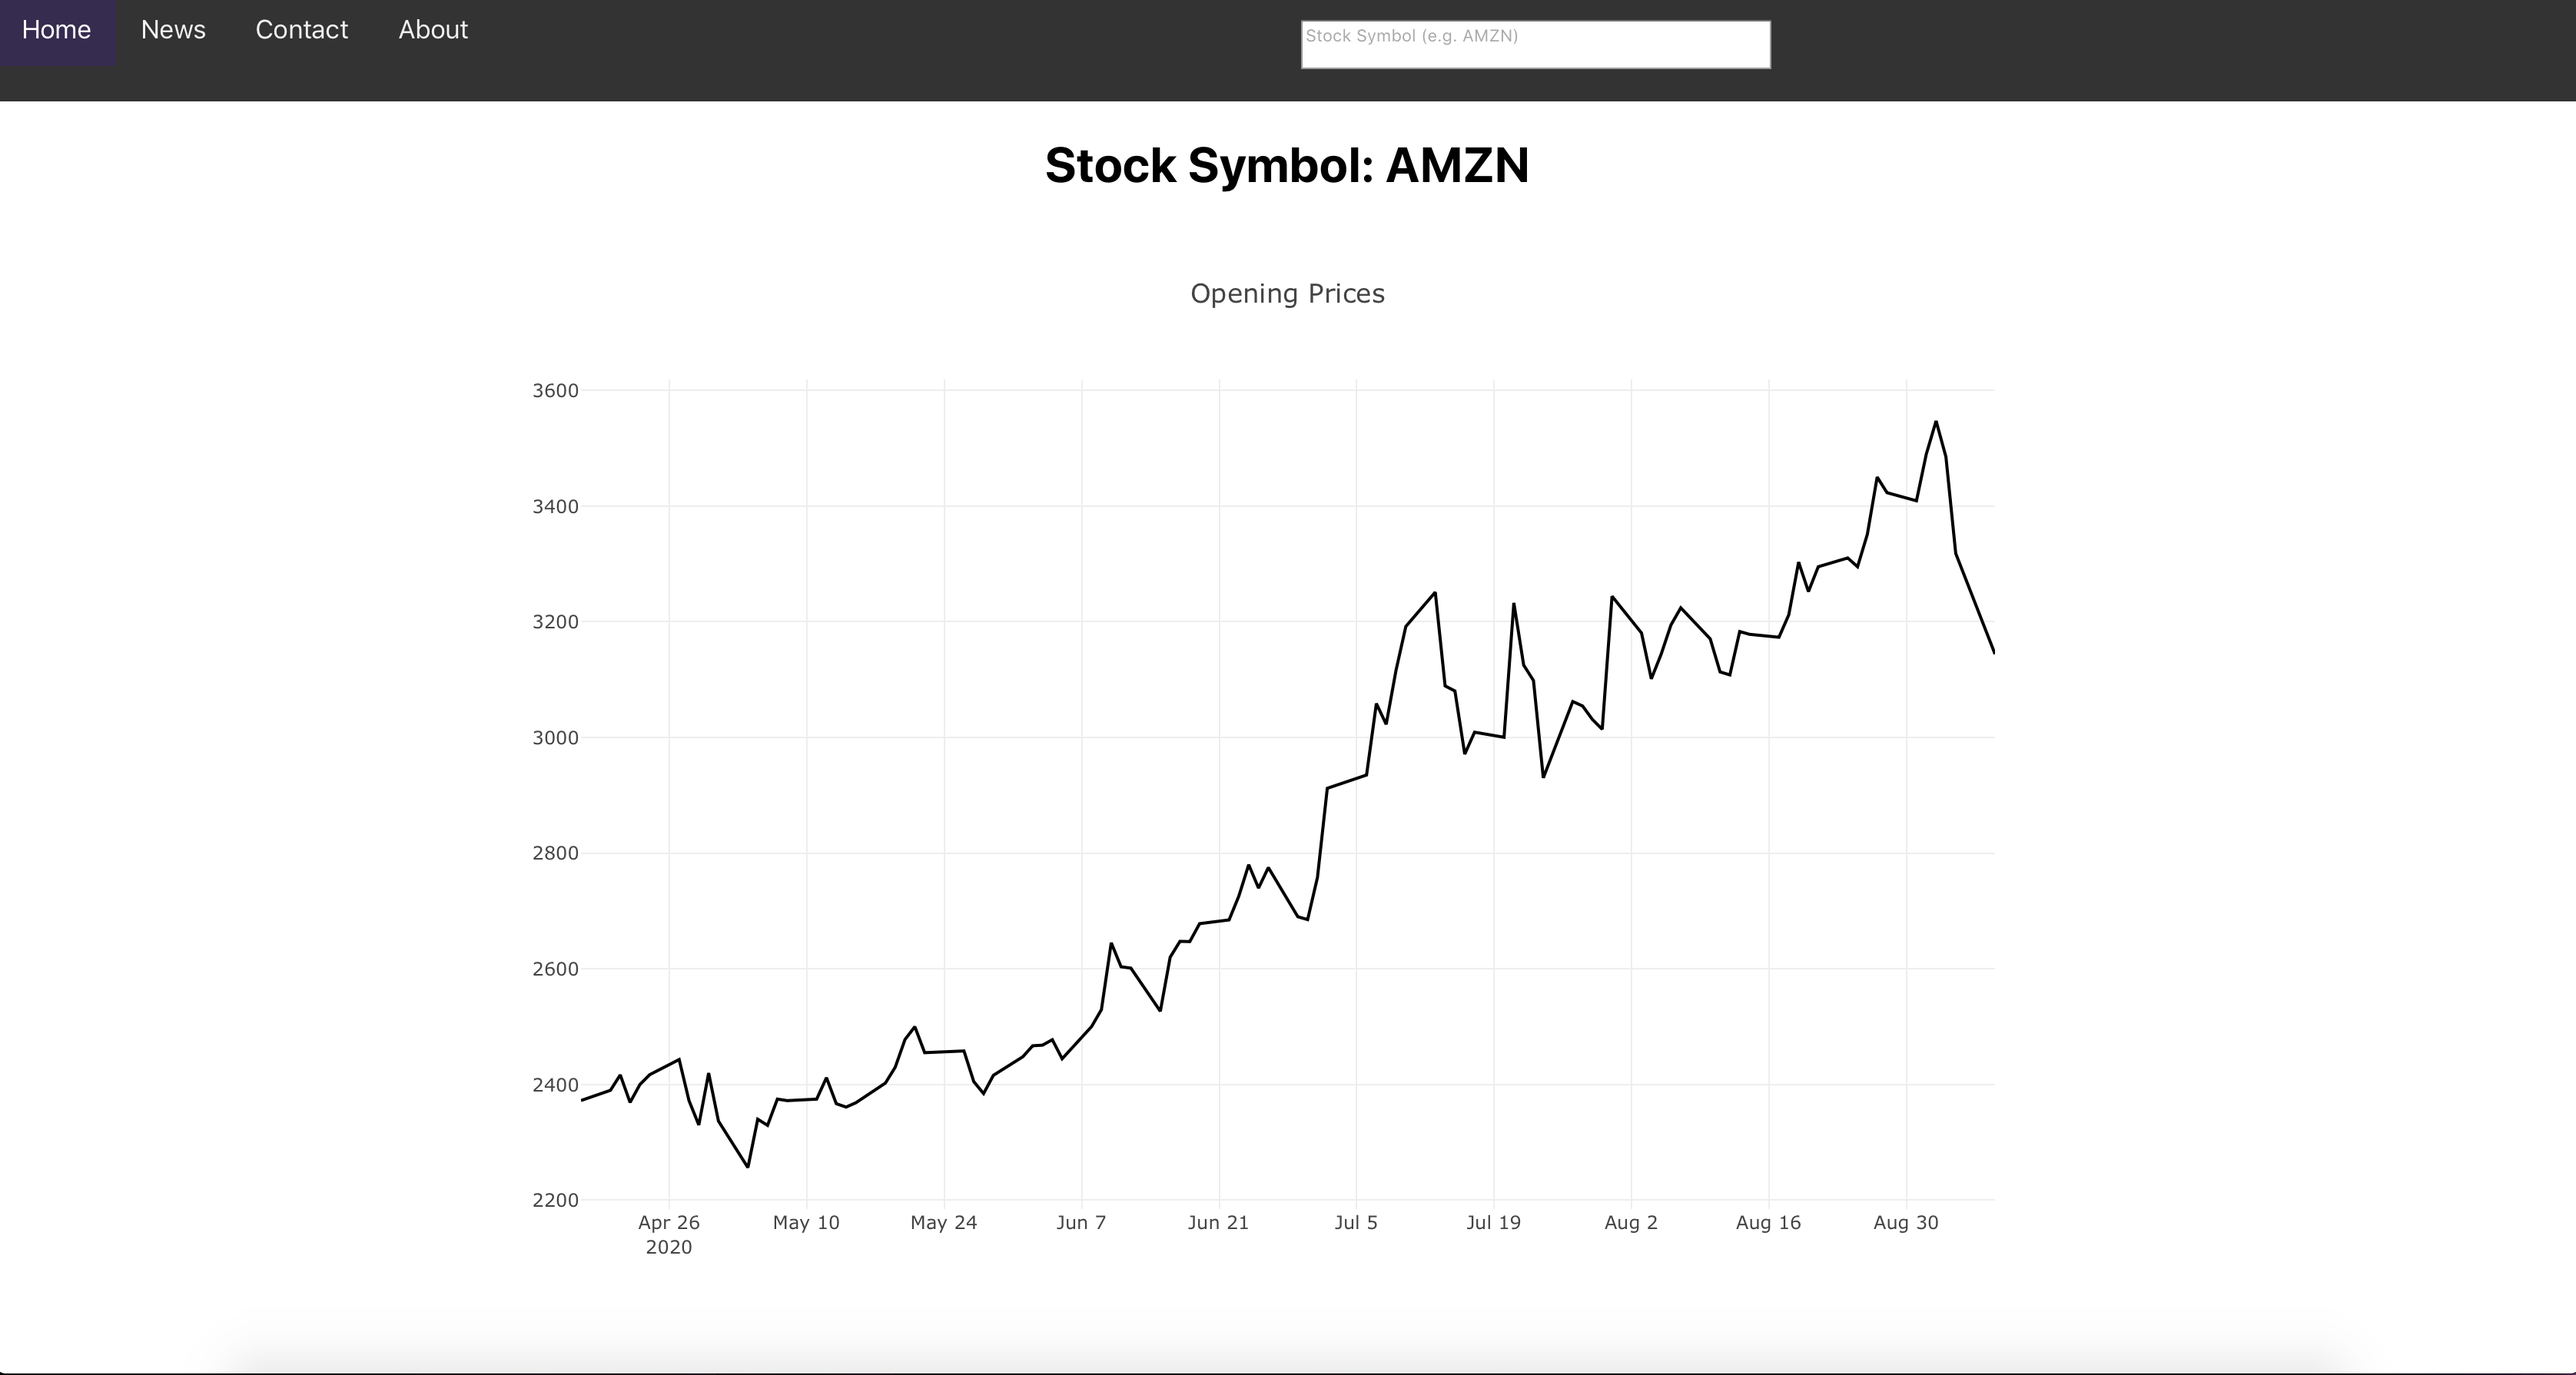
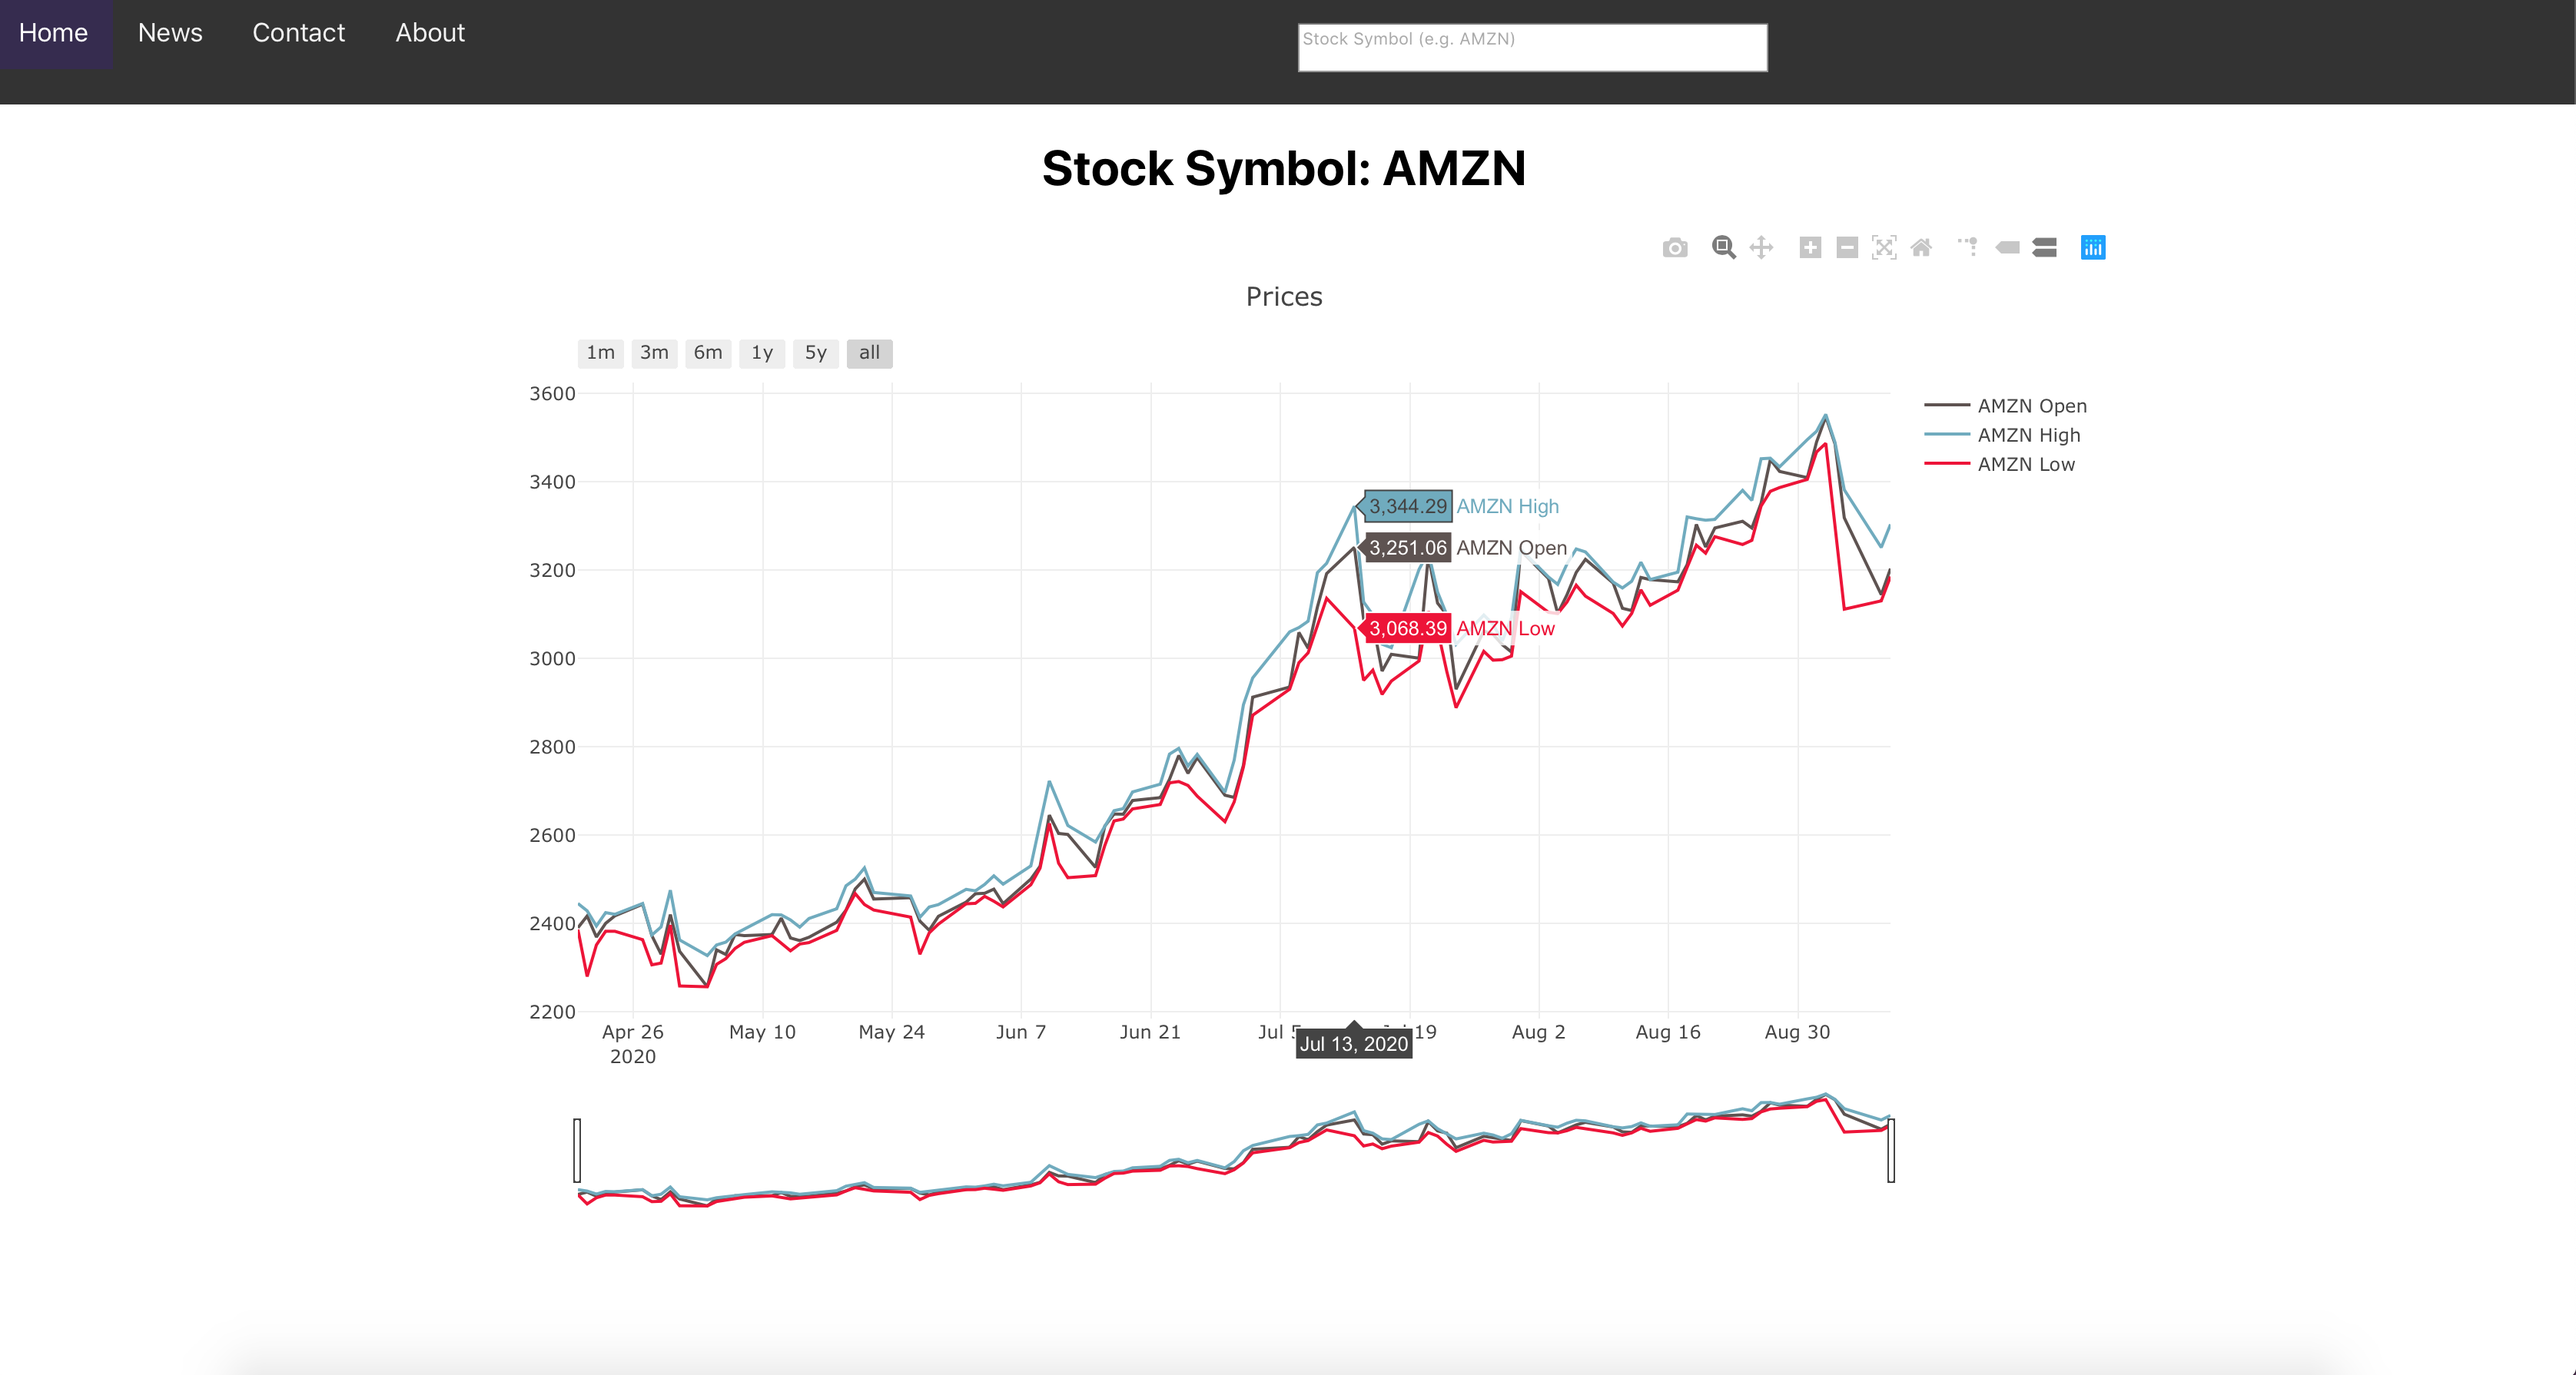
Added multi chart support and updated readme image

diff --git a/src/Stock.js b/src/Stock.js
@@ -95,134 +95,34 @@ class Stock extends React.Component {
         <Plot
           data={[
             {
+              name: this.state.stockSymbol + ' Open',
               x: this.state.stockChartXValues,
               y: this.state.stockChartOpenValues,
               type: 'scatter',
               mode: 'lines',
-              marker: { color: '#5e5353' },
-            }
-          ]}
-          layout={
+              marker: { color: '#5e5351' },
+            },
             {
-              title: 'Opening Prices',
-              width: 1080,
-              height: 720,
-              xaxis: {
-                autorange: true,
-                rangeselector: {
-                  buttons: [
-                    {
-                      count: 1,
-                      label: '1m',
-                      step: 'month',
-                      stepmode: 'backward'
-                    },
-                    {
-                      count: 3,
-                      label: '3m',
-                      step: 'month',
-                      stepmode: 'backward'
-                    },
-                    {
-                      count: 6,
-                      label: '6m',
-                      step: 'month',
-                      stepmode: 'backward'
-                    },
-                    {
-                      count: 1,
-                      label: '1y',
-                      step: 'year',
-                      stepmode: 'backward'
-                    },
-                    {
-                      count: 5,
-                      label: '5y',
-                      step: 'year',
-                      stepmode: 'backward'
-                    },
-                    { step: 'all' }
-                  ]
-                },
-                rangeslider: { range: [] },
-                type: 'date'
-              }
-            }
-          }
-        />
-
-        <Plot
-          data={[
-            {
+              name: this.state.stockSymbol + ' High',
               x: this.state.stockChartXValues,
               y: this.state.stockChartHighValues,
               type: 'scatter',
               mode: 'lines',
               marker: { color: '#6eabbf' },
-            }
-          ]}
-          layout={
+            },
             {
-              title: 'Stock Highs',
-              width: 1080,
-              height: 720,
-              xaxis: {
-                autorange: true,
-                rangeselector: {
-                  buttons: [
-                    {
-                      count: 1,
-                      label: '1m',
-                      step: 'month',
-                      stepmode: 'backward'
-                    },
-                    {
-                      count: 3,
-                      label: '3m',
-                      step: 'month',
-                      stepmode: 'backward'
-                    },
-                    {
-                      count: 6,
-                      label: '6m',
-                      step: 'month',
-                      stepmode: 'backward'
-                    },
-                    {
-                      count: 1,
-                      label: '1y',
-                      step: 'year',
-                      stepmode: 'backward'
-                    },
-                    {
-                      count: 5,
-                      label: '5y',
-                      step: 'year',
-                      stepmode: 'backward'
-                    },
-                    { step: 'all' }
-                  ]
-                },
-                rangeslider: { range: [] },
-                type: 'date'
-              }
-            }
-          }
-        />
-
-        <Plot
-          data={[
-            {
+              name: this.state.stockSymbol + ' Low',
               x: this.state.stockChartXValues,
               y: this.state.stockChartLowValues,
               type: 'scatter',
               mode: 'lines',
               marker: { color: '#f00a31' },
             }
+            
           ]}
           layout={
             {
-              title: 'Stock Lows',
+              title: 'Prices',
               width: 1080,
               height: 720,
               xaxis: {
